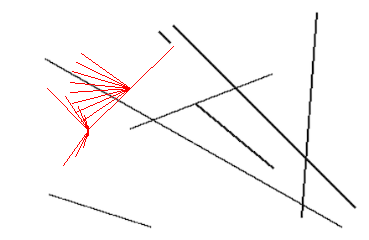
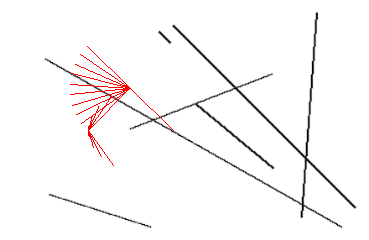
Added CalculateDstiance func, fixed FindLineEndingPoints so it gives correct values in y axis.

Changed region(s): [[0.1789, 0.2333, 0.3577, 0.6417], [0.2683, 0.6125, 0.2981, 0.6708], [0.1789, 0.6417, 0.2087, 0.6708]]

diff --git a/Program.py b/Program.py
@@ -116,5 +116,9 @@ def FindLineEndingPoints(x1, y1, angle, length=60):
         raise ValueError("Angle has to be positive")
     angle_rad = math.radians(angle)
     x2 = x1 + length * math.cos(angle_rad)
-    y2 = y1 + length * math.sin(angle_rad)
+    y2 = y1 - length * math.sin(angle_rad)
     return Point(round(x2), round(y2))
+
+
+def CalculateDistance(point1, point2):
+    return math.sqrt((point1.x - point2.x)**2 + (point1.y - point2.y)**2)
